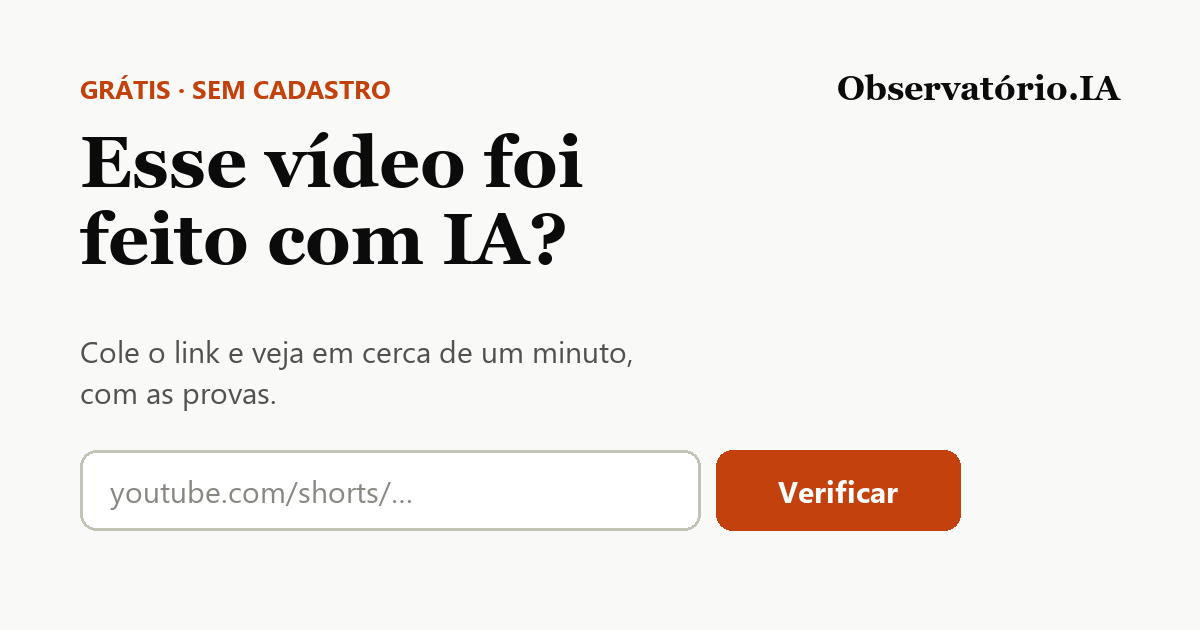
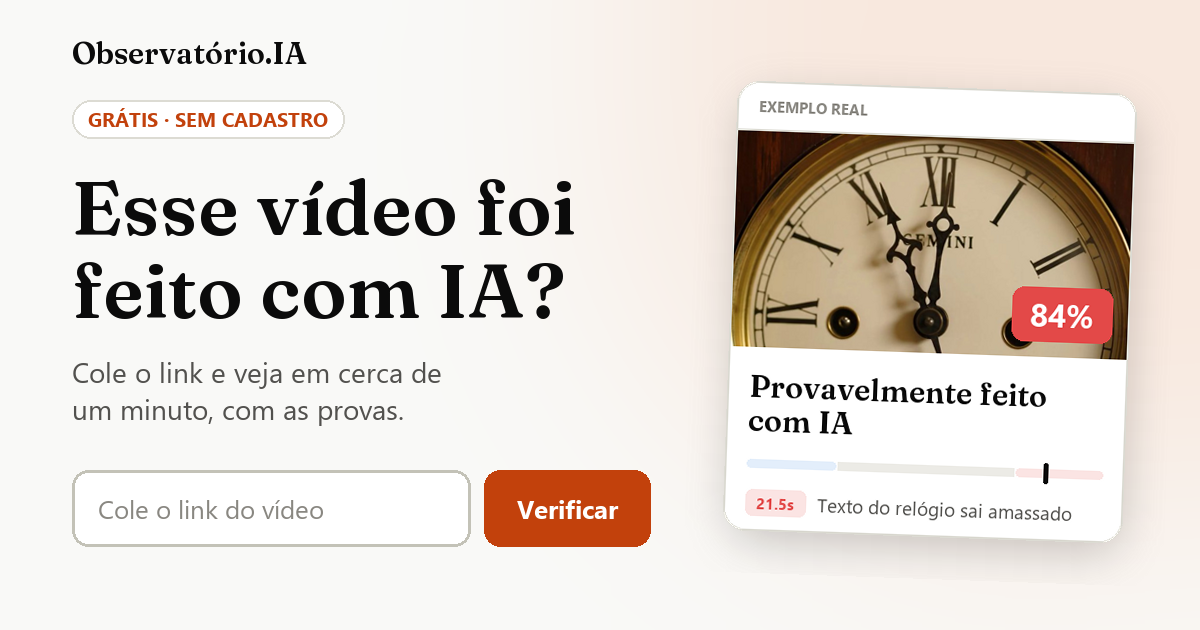
Share image shows a real result next to the question
Headings in Fraunces, the example card (clock frame, 84%) on the right, matching the new home.

diff --git a/scripts/make_og.py b/scripts/make_og.py
@@ -1,47 +1,115 @@
 """Render the link-preview images (1200x630) shown when the site is shared
-on LinkedIn, WhatsApp or X. Needs Pillow and the Georgia/Segoe UI fonts
-(Windows) or pass other TTF paths via OG_SERIF / OG_SANS.
+on LinkedIn, WhatsApp or X: the question on the left, a real result on the right.
 
-Run: python scripts/make_og.py
+Needs Pillow. Headings use Fraunces (the site's heading font): pass the TTF via
+OG_SERIF, e.g. the variable font from github.com/google/fonts (ofl/fraunces).
+Without it, falls back to Georgia Bold. Body text uses Segoe UI (Windows) or
+OG_SANS / OG_SANS_BOLD.
+
+Run: OG_SERIF=path/to/Fraunces.ttf python scripts/make_og.py
 """
 
 import os
 from pathlib import Path
 
-from PIL import Image, ImageDraw, ImageFont
+from PIL import Image, ImageDraw, ImageFilter, ImageFont, ImageOps
 
-OUT = Path(__file__).resolve().parents[1] / "src" / "observatory" / "detect" / "static"
+ROOT = Path(__file__).resolve().parents[1]
+OUT = ROOT / "src" / "observatory" / "detect" / "static"
+FRAME = ROOT / "examples" / "reports" / "youtube-weizh2jfsnw" / "frame_06.jpg"
 FONTS = Path(os.environ.get("WINDIR", "C:/Windows")) / "Fonts"
 SERIF = os.environ.get("OG_SERIF", str(FONTS / "georgiab.ttf"))
 SANS = os.environ.get("OG_SANS", str(FONTS / "segoeui.ttf"))
 SANS_BOLD = os.environ.get("OG_SANS_BOLD", str(FONTS / "segoeuib.ttf"))
 
-PAGE, INK, INK2, ACCENT, AI, HUMAN = "#f9f9f7", "#0b0b0b", "#52514e", "#c2410c", "#e34948", "#2a78d6"
+PAGE, INK, INK2, MUTED, RING = "#f9f9f7", "#0b0b0b", "#52514e", "#898781", "#dcdbd3"
+ACCENT, AI, AI_WASH, MID, HUMAN_WASH = "#c2410c", "#e34948", "#fbe4e3", "#ecebe6", "#e3eefb"
 
 COPY = {
-    "pt": ("GRÁTIS · SEM CADASTRO", "Esse vídeo foi\nfeito com IA?",
-           "Cole o link e veja em cerca de um minuto,\ncom as provas.", "Observatório.IA"),
-    "en": ("FREE · NO SIGN-UP", "Was this video\nmade with AI?",
-           "Paste the link and see in about a minute,\nwith the proof.", "Observatory.AI"),
+    "pt": {"kicker": "GRÁTIS · SEM CADASTRO", "headline": "Esse vídeo foi\nfeito com IA?",
+           "sub": "Cole o link e veja em cerca de\num minuto, com as provas.", "brand": "Observatório.IA",
+           "paste": "Cole o link do vídeo", "button": "Verificar", "label": "EXEMPLO REAL",
+           "verdict": "Provavelmente feito\ncom IA",
+           "clue": "Texto do relógio sai amassado"},
+    "en": {"kicker": "FREE · NO SIGN-UP", "headline": "Was this video\nmade with AI?",
+           "sub": "Paste the link and see in about\na minute, with the proof.", "brand": "Observatory.AI",
+           "paste": "Paste the video link", "button": "Check", "label": "REAL EXAMPLE",
+           "verdict": "Likely made\nwith AI",
+           "clue": "Text on the clock is squashed"},
 }
 
 
-BUTTON = {"pt": "Verificar", "en": "Check"}
+def serif(size: int) -> ImageFont.FreeTypeFont:
+    font = ImageFont.truetype(SERIF, size)
+    try:  # variable Fraunces: pick the weight the site uses
+        font.set_variation_by_name("SemiBold")
+    except (OSError, ValueError, AttributeError):
+        pass
+    return font
+
+
+def sans(size: int, bold: bool = False) -> ImageFont.FreeTypeFont:
+    return ImageFont.truetype(SANS_BOLD if bold else SANS, size)
+
+
+def background() -> Image.Image:
+    img = Image.new("RGB", (1200, 630), PAGE)
+    glow = Image.new("L", (1200, 630), 0)
+    ImageDraw.Draw(glow).ellipse((620, -260, 1420, 520), fill=90)
+    glow = glow.filter(ImageFilter.GaussianBlur(120))
+    return Image.composite(Image.new("RGB", img.size, "#f6c9b0"), img, glow)
+
+
+def card(c: dict) -> Image.Image:
+    """The example result, tilted slightly like on the home page."""
+    w, h = 400, 450
+    im = Image.new("RGBA", (w, h), (0, 0, 0, 0))
+    d = ImageDraw.Draw(im)
+    d.rounded_rectangle((0, 0, w - 1, h - 1), radius=22, fill="#ffffff", outline=RING, width=2)
+    d.text((22, 24), c["label"], font=sans(15, True), fill=MUTED, anchor="lm")
+    d.line((0, 48, w, 48), fill=RING, width=2)
+    frame = ImageOps.fit(Image.open(FRAME).convert("RGB"), (w - 4, 216))
+    im.paste(frame, (2, 50))
+    d.rounded_rectangle((w - 118, 196, w - 18, 250), radius=12, fill=AI)
+    d.text((w - 68, 223), "84%", font=sans(32, True), fill="#ffffff", anchor="mm")
+    y = 286
+    d.multiline_text((22, y), c["verdict"], font=serif(30), fill=INK, spacing=4)
+    by = y + 92
+    d.rounded_rectangle((22, by, 22 + 89, by + 8), radius=4, fill=HUMAN_WASH)
+    d.rectangle((113, by, 113 + 176, by + 8), fill=MID)
+    d.rounded_rectangle((291, by, w - 22, by + 8), radius=4, fill=AI_WASH)
+    mx = 22 + int(0.84 * (w - 44))
+    d.rounded_rectangle((mx - 2, by - 6, mx + 2, by + 14), radius=2, fill=INK)
+    d.rounded_rectangle((22, by + 30, 82, by + 56), radius=7, fill=AI_WASH)
+    d.text((52, by + 43), "21.5s", font=sans(15, True), fill=AI, anchor="mm")
+    d.text((94, by + 43), c["clue"], font=sans(19), fill=INK2, anchor="lm")
+    return im
 
 
 def render(lang: str) -> None:
-    kicker, headline, sub, brand = COPY[lang]
-    img = Image.new("RGB", (1200, 630), PAGE)
+    c = COPY[lang]
+    img = background()
     d = ImageDraw.Draw(img)
-    d.text((80, 70), kicker, font=ImageFont.truetype(SANS_BOLD, 26), fill=ACCENT)
-    d.multiline_text((80, 120), headline, font=ImageFont.truetype(SERIF, 72), fill=INK, spacing=10)
-    d.multiline_text((80, 330), sub, font=ImageFont.truetype(SANS, 30), fill=INK2, spacing=8)
+    d.text((72, 64), c["brand"], font=serif(30), fill=INK, anchor="ls")
+    kf = sans(20, True)
+    kw = d.textlength(c["kicker"], font=kf) + 32
+    d.rounded_rectangle((72, 100, 72 + kw, 138), radius=19, fill="#ffffff", outline=RING, width=2)
+    d.text((88, 119), c["kicker"], font=kf, fill=ACCENT, anchor="lm")
+    d.multiline_text((72, 160), c["headline"], font=serif(76), fill=INK, spacing=8)
+    d.multiline_text((72, 352), c["sub"], font=sans(28), fill=INK2, spacing=6)
     # the product in one picture: a link field and the check button
-    d.rounded_rectangle((80, 450, 700, 530), radius=16, fill="#ffffff", outline="#c3c2b7", width=3)
-    d.text((110, 490), "youtube.com/shorts/…", font=ImageFont.truetype(SANS, 30), fill="#898781", anchor="lm")
-    d.rounded_rectangle((716, 450, 960, 530), radius=16, fill=ACCENT)
-    d.text((838, 490), BUTTON[lang], font=ImageFont.truetype(SANS_BOLD, 30), fill="#ffffff", anchor="mm")
-    d.text((1120, 100), brand, font=ImageFont.truetype(SERIF, 34), fill=INK, anchor="rs")
+    d.rounded_rectangle((72, 470, 470, 546), radius=16, fill="#ffffff", outline="#c3c2b7", width=3)
+    d.text((98, 508), c["paste"], font=sans(26), fill=MUTED, anchor="lm")
+    d.rounded_rectangle((484, 470, 650, 546), radius=16, fill=ACCENT)
+    d.text((567, 508), c["button"], font=sans(26, True), fill="#ffffff", anchor="mm")
+
+    k = card(c)
+    shadow = Image.new("RGBA", (k.width + 80, k.height + 80), (0, 0, 0, 0))
+    ImageDraw.Draw(shadow).rounded_rectangle((46, 56, k.width + 34, k.height + 46), radius=22, fill=(0, 0, 0, 55))
+    shadow = shadow.filter(ImageFilter.GaussianBlur(22)).rotate(-2, resample=Image.BICUBIC, expand=True)
+    tilted = k.rotate(-2, resample=Image.BICUBIC, expand=True)
+    img.paste(shadow, (722 - 40, 80 - 40), shadow)
+    img.paste(tilted, (722, 80), tilted)
     img.save(OUT / f"og-{lang}.png", optimize=True)
     print("wrote", OUT / f"og-{lang}.png")
 
